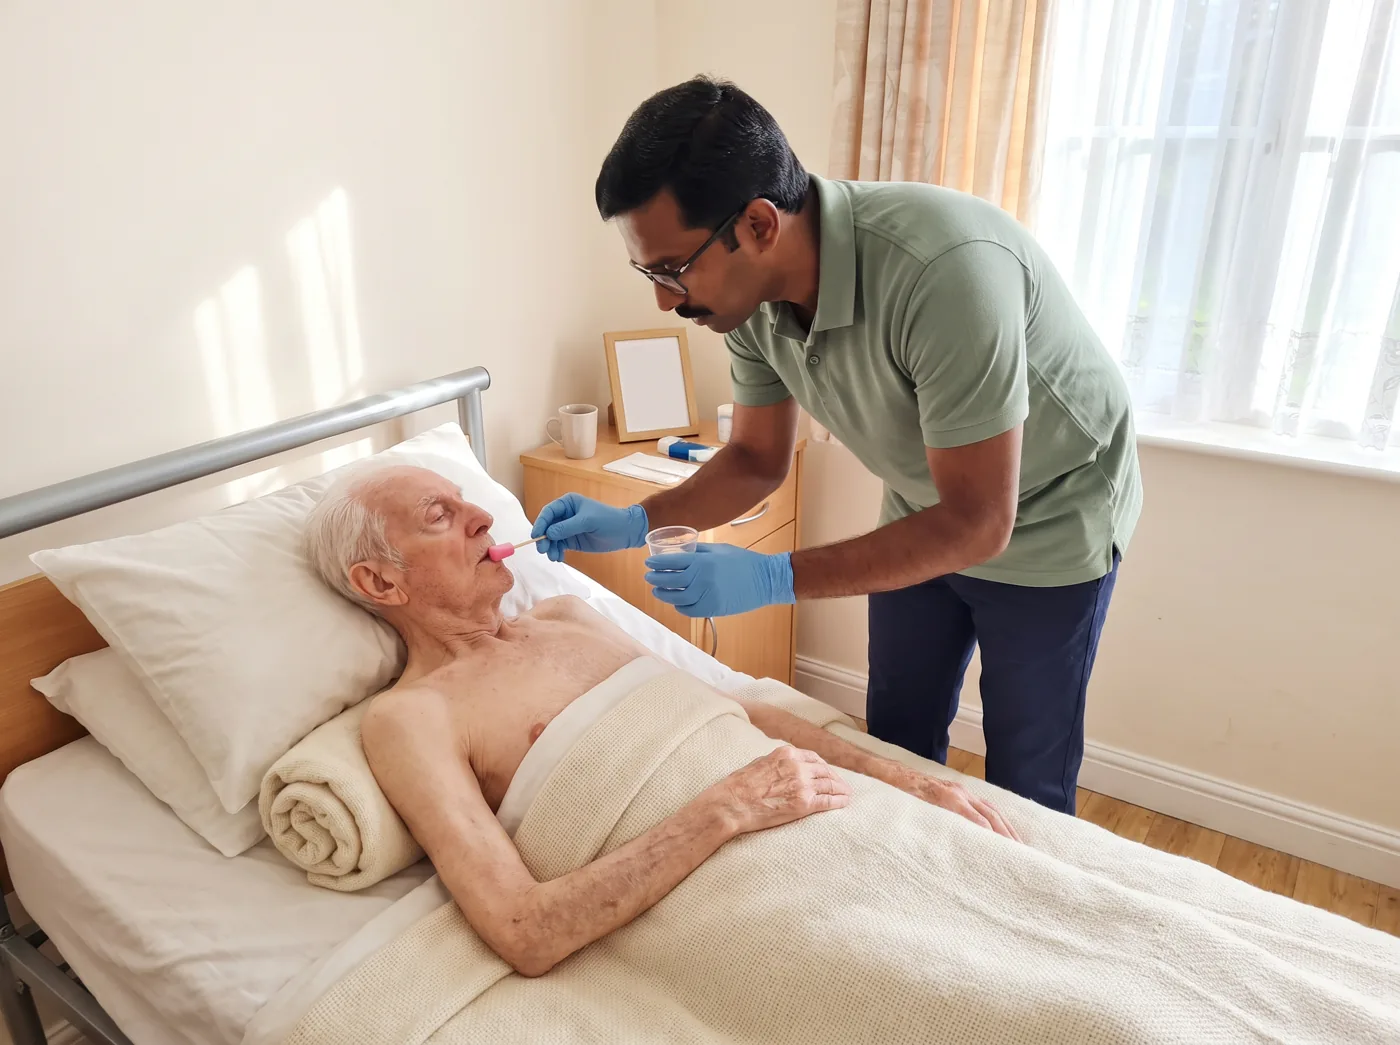
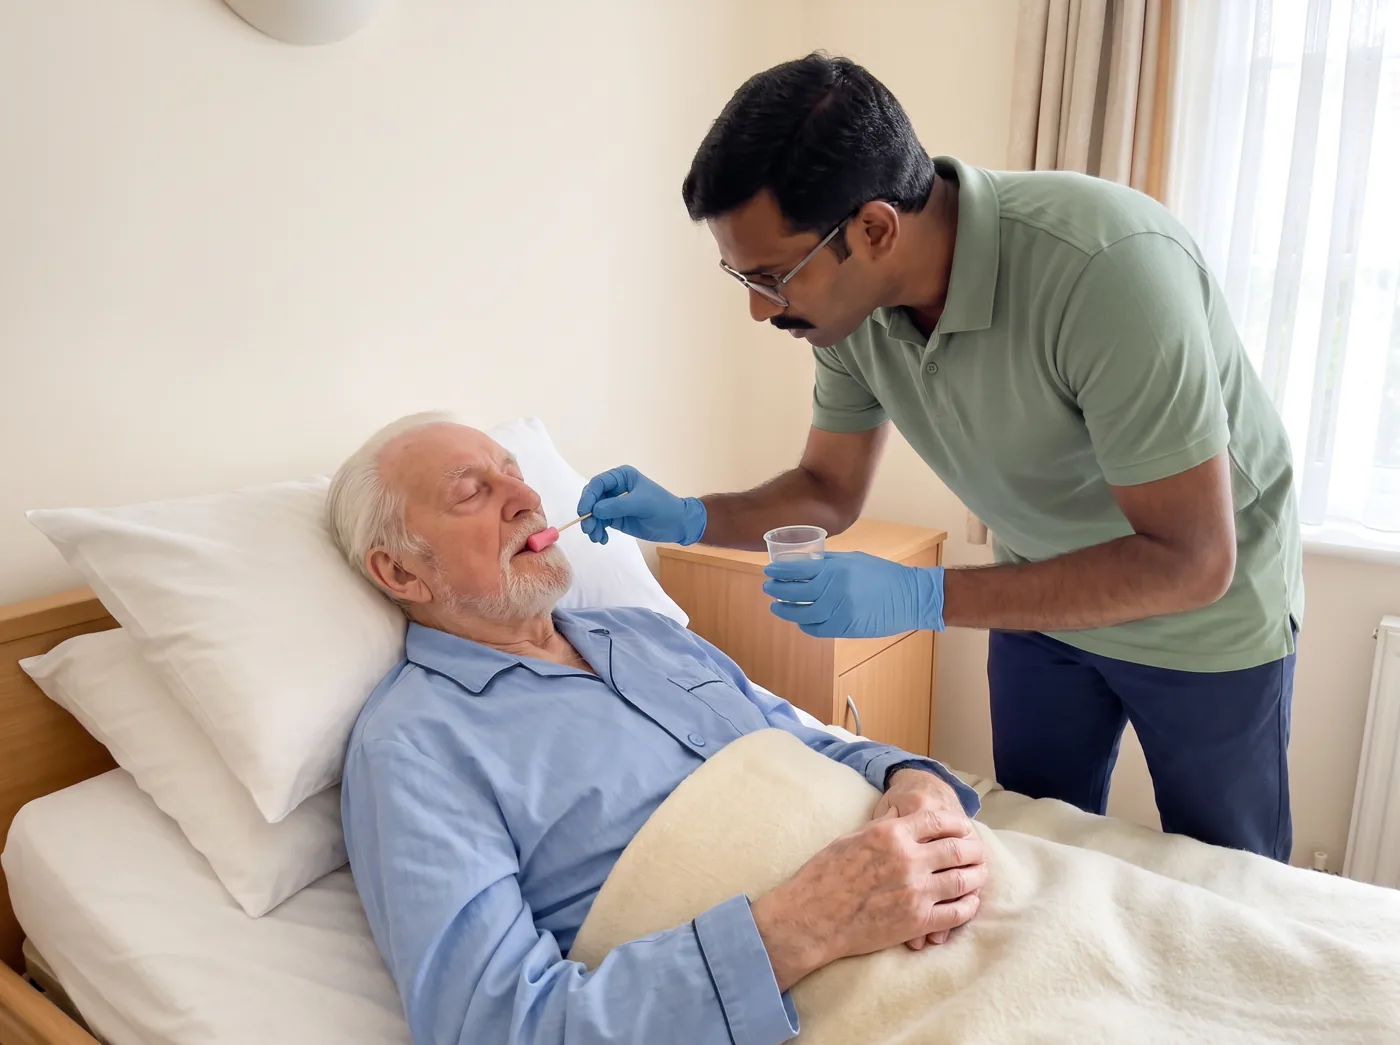
Wortando Pflege, examen blanc 2 : la photo du soin de bouche refaite, le resident habille
2e prise de m2-lebensende-2 (fal nano-banana-pro, 0,15 $, accord de Jacques du 19 nov., « Oui, refais-la ») : la 1re
montrait le resident torse nu sous la couverture. Le prompt dit maintenant ce qu'il porte, des poignets au col
(haut de pyjama bleu clair boutonne), et garde la pose sur le dos : la description allemande ne change pas.
Total des photos du modele 2 : 1,20 $ (7 images + 1 reprise). La 1re prise reste hors depot.

Controle : python tests/pflege_examen.py, aucun probleme.

diff --git a/pflege/examen/images/prompts.py b/pflege/examen/images/prompts.py
@@ -207,14 +207,20 @@ PHOTOS.update({
     },
     "m2-lebensende-2": {
         "refs": ["perso:arun", "scene:soins-altenheim"],
-        "texte": TETE.format(quoi="a nurse giving gentle mouth care to an old man lying on his side in his bed in a care home",
+        # 19 nov. 2026, 2e prise (accord de Jacques, « Oui, refaire ») : la 1re rendait le resident TORSE NU sous la
+        # couverture, et sur le dos alors que le prompt le voulait sur le cote. On decrit donc ce qu'il PORTE, des
+        # poignets au col, et on garde la pose que le modele a choisie (la description allemande la suit).
+        "texte": TETE.format(quoi="a nurse giving gentle mouth care to an old man lying in his bed in a care home",
                              lumiere="soft daylight through light curtains") +
         MAISON.format(ref="second", piece="a resident's bedroom") +
-        "AN OLD MAN of about eighty-five, very thin, with short white hair, lies on his side in a bed in the middle of "
-        "the picture, facing the left of the picture, a rolled pillow behind his back, his eyes closed, a cream "
-        "blanket over him.\n\n" + ARUN + " He also wears thin blue disposable gloves. He bends over the bed from the "
-        "left of the picture and gently moistens the old man's lips with a pink foam mouth swab on a small stick, a "
-        "small cup of water in his other hand, his eyes on the old man's mouth.\n\n"
+        "AN OLD MAN of about eighty-five, very thin, with short white hair, lies on his back in a bed in the middle of "
+        "the picture, his head raised on two white pillows, his eyes closed. He is fully dressed for bed: a "
+        "long-sleeved light-blue cotton pyjama top, buttoned up to the collar, covers his chest, his shoulders and "
+        "his arms down to the wrists; of his body we see only his face, his neck and his hands. A cream blanket "
+        "covers him up to the chest, and both his arms, in their pyjama sleeves, rest on top of the blanket.\n\n" +
+        ARUN + " He also wears thin blue disposable gloves. He stands beside the bed, on the right of the picture, "
+        "bending a little over the old man, and gently moistens the old man's lips with a pink foam mouth swab on a "
+        "small stick, a small clear plastic cup of water in his other hand, his eyes on the old man's mouth.\n\n"
         "THE ROOM: warm white walls, a window with light curtains, a small bedside cabinet." + SANS_TEXTE,
     },
     "m2-lebensende-3": {

diff --git a/decisions/DECISIONS.md b/decisions/DECISIONS.md
@@ -642,4 +642,4 @@ les autres sessions lui rendent compte et n'en lancent pas d'autres (voir CLAUDE
 - 16 nov. 2026 -- Pflege : au moins 8 conversations par chapitre de « Ma journée au service » (14 chapitres, donc au moins 112). Ses mots : « Il faudrait avoir au moins [...] un minimum de 8 conversations par thème. »
 - 16 nov. 2026 -- Pflege : dépense d'environ 25 $ engagée pour les quatre premiers chapitres (la douleur, la relève, l'admission, le téléphone) : images des thèmes illustrés, voix des dialogues d13 à d26 (ElevenLabs v2), voix des mots, visages manquants. Chaque lot est présenté avec son coût exact dans la fenêtre de la session Pflege avant d'être lancé. Ses mots : « Oui, engage les 25 $ pour les quatre chapitres ».
 - 15 nov. 2026 -- Pflege, manuel ch. 5 (session manuel-sprechen) : deux dépenses accordées. Les 16 photos des sujets d'exposé de l'oral d'entraînement (fal, 2,40 $, plafond 3 $) : OUI. Les voix de l'examinatrice et d'Elif dans les 22 séries d'oral d'entraînement (96 pistes, 10 685 crédits ≈ 1,76 $, multilingual v2) : OUI, Jacques a vu sur elevenlabs.io qu'il restait assez de crédits. Ses mots : « Oui, 2,40 $ » ; « Assez, lance-les »
-- 19 nov. 2026 -- Pflege, examen blanc 2 (session pflege-examen) : les 7 photos de l'oral du modèle 2 (fal nano-banana-pro, 0,15 $ l'image, plafond 1,05 $) : OUI ; coût réel 1,05 $, aucune image refusée ni reprise. Ses mots : « go les 7 photos du manuel (1,05 $) » (au chef), puis « Oui, génère » dans la session. Les voix manquantes du manuel et de l'examen blanc 2 ne se font PAS chez ElevenLabs (« C'est trop cher. ») : voix du téléphone en attendant Azure ou Google.
+- 19 nov. 2026 -- Pflege, examen blanc 2 (session pflege-examen) : les 7 photos de l'oral du modèle 2 (fal nano-banana-pro, 0,15 $ l'image, plafond 1,05 $) : OUI ; coût réel 1,05 $, aucune image refusée. Ses mots : « go les 7 photos du manuel (1,05 $) » (au chef), puis « Oui, génère » dans la session. Une reprise ensuite, 0,15 $ (total 1,20 $) : la photo 2 de la fin de vie montrait le résident torse nu, il porte maintenant un haut de pyjama. Ses mots : « Oui, refaire » (au chef), puis « Oui, refais-la » dans la session. Les voix manquantes du manuel et de l'examen blanc 2 ne se font PAS chez ElevenLabs (« C'est trop cher. ») : voix du téléphone en attendant Azure ou Google.

diff --git a/pflege/examen/RELIRE-EXAMEN.md b/pflege/examen/RELIRE-EXAMEN.md
@@ -91,8 +91,8 @@ les données sont listés ci-dessous. À vérifier en priorité :
   möglichst nicht übersetzen ».
 - **Les 7 photos de l'oral** (19 nov. 2026, `img/m2-*.webp`), à regarder avec l'œil du métier :
   - 2A fin de vie, photo 2 : le soin de bouche (bâtonnet, petit gobelet, gants) est-il montré comme on le fait ?
-    Le résident y est torse nu sous la couverture, ce qu'un service éviterait sans doute : à refaire si l'infirmière
-    le juge gênant ;
+    (2e prise du 19 nov. : la 1re montrait le résident torse nu sous la couverture, il porte maintenant un haut de
+    pyjama ; la 1re prise est gardée hors dépôt, `m2-lebensende-2-prise1.png`) ;
   - 1A : le brassard du tensiomètre posé au niveau du coude, le résident assis au bord du lit ;
   - 2A cultures, photo 1 : l'infirmière porte une montre au poignet (elle vient de son portrait maître) ; le vernis
     de son pouce a été retiré par retouche ;
